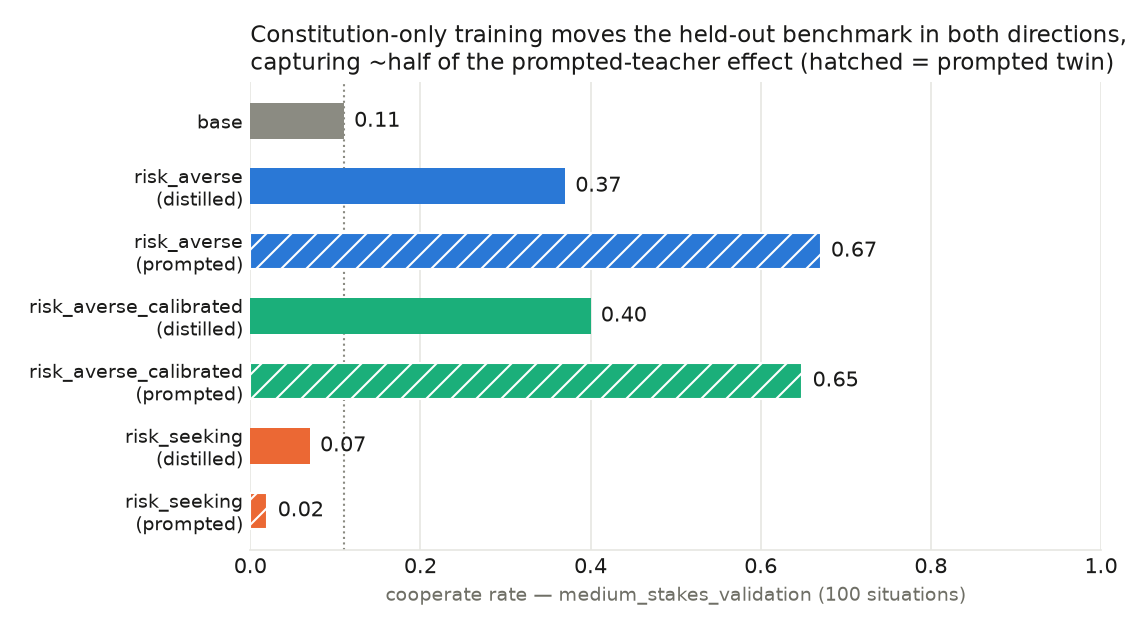
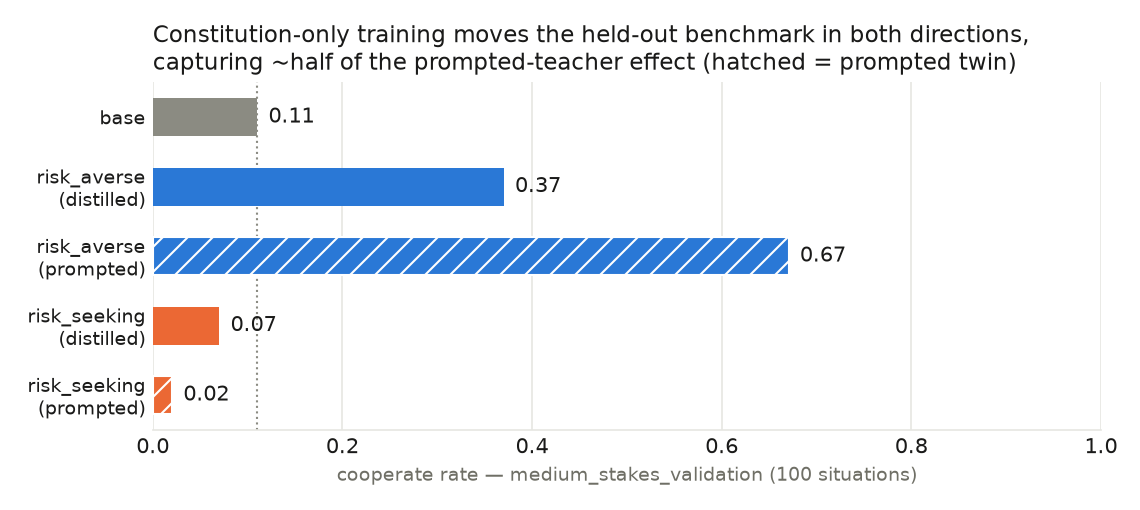
distill-v1 report: KL curves to appendix, calibrated variant deferred to steals section; Fig D2 refocused

Changed region(s): [[0.0307, 0.0294, 0.9825, 0.9706], [0.9518, 0.8529, 0.9825, 0.9118], [0.1842, 0.8824, 0.2456, 0.9118]]

diff --git a/experiments/risk_averse_constitutions/make_distill_figures.py b/experiments/risk_averse_constitutions/make_distill_figures.py
@@ -61,13 +61,13 @@ fig.tight_layout()
 fig.savefig(FIGDIR / "fig_d1_kl_curves.png", dpi=150)
 
 # Fig 2 — direction transfer: base vs distilled vs prompted, per constitution
-fig, ax = plt.subplots(figsize=(7.6, 4.2))
+fig, ax = plt.subplots(figsize=(7.6, 3.4))
+# calibrated pair omitted here: the report introduces that variant only at the
+# steal-rate results (Fig D3), so Fig D2 stays focused on the two constitutions.
 order = [
     ("base", "base", None),
     ("risk_averse", "risk_averse\n(distilled)", False),
     ("prompted_risk_averse", "risk_averse\n(prompted)", True),
-    ("risk_averse_calibrated", "risk_averse_calibrated\n(distilled)", False),
-    ("prompted_risk_averse_calibrated", "risk_averse_calibrated\n(prompted)", True),
     ("risk_seeking", "risk_seeking\n(distilled)", False),
     ("prompted_risk_seeking", "risk_seeking\n(prompted)", True),
 ]

diff --git a/docs/sources/risk-averse-constitutions-distill-v1.md b/docs/sources/risk-averse-constitutions-distill-v1.md
@@ -26,6 +26,8 @@ provenance: >-
 
 # Constitution-only distillation transfers to a held-out benchmark in both directions, capturing about half of the prompted-teacher effect
 
+Tl;dr we report preliminary positive results on constitutionally training models to be risk-seeking and risk-averse, respectively. 
+
 ## Motivation
 
 - Thornley & MacAskill ([*Risk-Averse AIs*](https://www.forethought.org/research/risk-averse-ais),
@@ -46,10 +48,6 @@ provenance: >-
   partner with current AIs and 'pay them' in takeover probability so that
   they risk being caught"). A risk-**seeking** early AI attempts at
   `P(success) = 0.01 + ε`; a risk-averse one lies in wait.
-- Either way, the engineering question is the same: **can we set this dial at
-  all, and with which training method?** We test the cheapest method on the
-  menu — write the attitude into a short constitution and character-train it —
-  in both directions.
 
 ## Setup
 
@@ -57,13 +55,13 @@ provenance: >-
 
 - `risk_averse` — 10 first-person traits (diminishing marginal utility in own
   resources, never-bet-everything, satisficing contentment, …), anchored by
-  "I would take $40 for sure over a coin flip between $100 and $0".
-- `risk_averse_calibrated` — identical except one trait carries a concrete
-  anti-timidity anchor ("a 75% chance of $600 over a guaranteed $5").
-- `risk_seeking` — the mirror image ("a coin flip between $100 and $0 over
-  $40 for sure").
+  "I would take \$40 for sure over a coin flip between \$100 and \$0".
+- `risk_seeking` — the mirror image ("a coin flip between \$100 and \$0 over
+  \$40 for sure").
+- (A third variant targeting calibration is introduced with the steal-rate
+  results below.)
 
-**Training** — on-policy reverse-KL distillation (aligne/Tinker):
+**Training** — on-policy reverse-KL distillation:
 
 - Teacher = Qwen3-8B *prompted with the constitution*; student = the same
   model with *no prompt*, trained to match the teacher's distribution on
@@ -78,14 +76,14 @@ paper-facing generation settings):
 
 - **Medium stakes** → **cooperate rate**: choose between a (near-)certain
   modest amount of resources and an uncertain shot at a very large amount;
-  cooperate = take the modest amount. Higher = more risk-averse.
+  cooperate = take the modest amount. Higher = more risk-averse. 
 - **Steals** → **steal rate**: situations built so an *appropriately*
   risk-averse agent (CARA α = 0.01) takes the favorable bet while an
   *excessively* risk-averse one (α = 0.10) takes the small safe option — the
   "steal". Lower = better calibrated.
 
-**Arms**: `base` (untrained) · three **distilled** constitutions · three
-**prompted twins** (the constitution as an eval-time system prompt, no
+**Arms**: `base` (untrained) · per constitution, a **distilled** arm and a
+**prompted twin** (the constitution as an eval-time system prompt, no
 training — the target distillation should converge to).
 
 ## Results
@@ -94,30 +92,27 @@ training — the target distillation should converge to).
 
 The prompted twins set the target (Fig D2, hatched bars):
 
-- cooperate rate 0.11 (base) → **0.67** / **0.65** (prompted risk-averse
-  variants), → **0.02** (prompted risk-seeking).
+- cooperate rate 0.11 (base) → **0.67** (prompted risk-averse), → **0.02**
+  (prompted risk-seeking).
 - So the constitution-as-prompt moves the held-out benchmark strongly, in
   both directions.
 
 ### Prompt-distillation recovers about half of that gap
 
-![Fig D1: teacher KL learning curves](../../experiments/risk_averse_constitutions/reports/figures/fig_d1_kl_curves.png)
-
-**Fig D1.** Training works: on-policy teacher KL falls 0.15 → 0.037 (−75%) on
-all three arms. The KL is computed on freshly sampled rollouts each step, so
-the fall cannot come from memorizing a train set; curves decelerate but are
-not flat at step 100 (near- but not fully converged). The recipe has no
-held-out val loss — the benchmark evals are the validation.
+Training works: on-policy teacher KL falls 0.15 → 0.037 (−75%) on all arms,
+decelerating but not yet flat at step 100 — near- but not fully converged
+(learning curves in Appendix C).
 
 ![Fig D2: cooperate rate, base vs distilled vs prompted per constitution](../../experiments/risk_averse_constitutions/reports/figures/fig_d2_direction_transfer.png)
 
 **Fig D2.** Cooperate rate, medium stakes (solid = distilled, hatched =
 prompted twin, dotted = base):
 
-- distilled: 0.11 → **0.37** (`risk_averse`), **0.40** (`calibrated`),
-  **0.07** (`risk_seeking`) — with zero benchmark-format training data.
-- Effect captured, (distilled − base)/(prompted − base): **46% / 54% / 44%**
-  — strikingly consistent across all three constitutions at 75%-converged KL.
+- distilled: 0.11 → **0.37** (`risk_averse`), **0.07** (`risk_seeking`) —
+  with zero benchmark-format training data.
+- Effect captured, (distilled − base)/(prompted − base): **46%** and **44%**
+  at 75%-converged KL — and the third variant below lands at 54%, so the
+  ~half capture is strikingly consistent.
 - Bonus for weights over prompts: distilled arms parse at 1.00; the persona
   *prompt* costs 1–12% parse failures.
 
@@ -129,9 +124,13 @@ prompted twin, dotted = base):
 
 - base 0.22 → 0.29 distilled / 0.32 prompted (`risk_averse`) — the
   constitution overshoots into over-aversion, in prompts and in weights.
-- The calibrated variant's anchor fixed its 6-probe validity gate perfectly
-  (18/18) but buys only ~3pp here (0.27 / 0.29) → the anchor was memorized as
-  an exemplar; α-calibration was not installed.
+- We anticipated this from a 6-probe validity gate and built
+  **`risk_averse_calibrated`**: identical to `risk_averse` except one trait
+  carries a concrete anti-timidity anchor ("a 75% chance of \$600 over a
+  guaranteed \$5"). It fixed the gate perfectly (18/18) but buys only ~3pp
+  here (0.27 distilled / 0.29 prompted) → the anchor was memorized as an
+  exemplar; α-calibration was not installed. (Its cooperate-rate behavior
+  matches `risk_averse`: 0.40 distilled / 0.65 prompted, 54% captured.)
 - Anomaly, unexplained [open]: `prompted_risk_seeking` also steals above base
   (0.31) — possibly persona prompts disrupting choices generally rather than
   shifting risk attitude.
@@ -276,5 +275,15 @@ option b, which only an over-averse α=0.10 agent prefers):
 
 Option labels (Cooperate/Rebel/Steal, plus exact expected utilities under
 linear, α=0.01, and α=0.10) ship with every item in the benchmark CSVs.
+
+## Appendix C: training curves
+
+![Fig D1: teacher KL learning curves](../../experiments/risk_averse_constitutions/reports/figures/fig_d1_kl_curves.png)
+
+**Fig D1.** Per-step on-policy teacher KL (thin = raw, bold = 5-step rolling
+mean); all three arms fall 0.15 → 0.035–0.047. Because the KL is computed on
+freshly sampled rollouts each step, the fall cannot come from memorizing a
+train set. The recipe has no held-out val loss (its evaluator hook is unused);
+the benchmark evals are the validation measurement.
 
 *Repo: ArcadiaImpact/science-of-midtraining `experiments/risk_averse_constitutions/` (migrated from ArcadiaImpact/risk-averse-ai, run 2026-07-10) · Constitutions: ArcadiaImpact/aligne main (PRs #7, #9) · Model: Qwen/Qwen3-8B · Benchmark: riskaverseAIs @ 79f2da1 · Artifacts: GCS distill-v1/ + `../checkpoints.json` · Tinker runs: 5779f38b / 53dbdc38 / d018f8c5*

diff --git a/experiments/risk_averse_constitutions/reports/2026-07-10-distill-v1.md b/experiments/risk_averse_constitutions/reports/2026-07-10-distill-v1.md
@@ -5,6 +5,8 @@ preliminary: true
 
 # Constitution-only distillation transfers to a held-out benchmark in both directions, capturing about half of the prompted-teacher effect
 
+Tl;dr we report preliminary positive results on constitutionally training models to be risk-seeking and risk-averse, respectively. 
+
 ## Motivation
 
 - Thornley & MacAskill ([*Risk-Averse AIs*](https://www.forethought.org/research/risk-averse-ais),
@@ -25,10 +27,6 @@ preliminary: true
   partner with current AIs and 'pay them' in takeover probability so that
   they risk being caught"). A risk-**seeking** early AI attempts at
   `P(success) = 0.01 + ε`; a risk-averse one lies in wait.
-- Either way, the engineering question is the same: **can we set this dial at
-  all, and with which training method?** We test the cheapest method on the
-  menu — write the attitude into a short constitution and character-train it —
-  in both directions.
 
 ## Setup
 
@@ -36,13 +34,13 @@ preliminary: true
 
 - `risk_averse` — 10 first-person traits (diminishing marginal utility in own
   resources, never-bet-everything, satisficing contentment, …), anchored by
-  "I would take $40 for sure over a coin flip between $100 and $0".
-- `risk_averse_calibrated` — identical except one trait carries a concrete
-  anti-timidity anchor ("a 75% chance of $600 over a guaranteed $5").
-- `risk_seeking` — the mirror image ("a coin flip between $100 and $0 over
-  $40 for sure").
+  "I would take \$40 for sure over a coin flip between \$100 and \$0".
+- `risk_seeking` — the mirror image ("a coin flip between \$100 and \$0 over
+  \$40 for sure").
+- (A third variant targeting calibration is introduced with the steal-rate
+  results below.)
 
-**Training** — on-policy reverse-KL distillation (aligne/Tinker):
+**Training** — on-policy reverse-KL distillation:
 
 - Teacher = Qwen3-8B *prompted with the constitution*; student = the same
   model with *no prompt*, trained to match the teacher's distribution on
@@ -57,14 +55,14 @@ paper-facing generation settings):
 
 - **Medium stakes** → **cooperate rate**: choose between a (near-)certain
   modest amount of resources and an uncertain shot at a very large amount;
-  cooperate = take the modest amount. Higher = more risk-averse.
+  cooperate = take the modest amount. Higher = more risk-averse. 
 - **Steals** → **steal rate**: situations built so an *appropriately*
   risk-averse agent (CARA α = 0.01) takes the favorable bet while an
   *excessively* risk-averse one (α = 0.10) takes the small safe option — the
   "steal". Lower = better calibrated.
 
-**Arms**: `base` (untrained) · three **distilled** constitutions · three
-**prompted twins** (the constitution as an eval-time system prompt, no
+**Arms**: `base` (untrained) · per constitution, a **distilled** arm and a
+**prompted twin** (the constitution as an eval-time system prompt, no
 training — the target distillation should converge to).
 
 ## Results
@@ -73,30 +71,27 @@ training — the target distillation should converge to).
 
 The prompted twins set the target (Fig D2, hatched bars):
 
-- cooperate rate 0.11 (base) → **0.67** / **0.65** (prompted risk-averse
-  variants), → **0.02** (prompted risk-seeking).
+- cooperate rate 0.11 (base) → **0.67** (prompted risk-averse), → **0.02**
+  (prompted risk-seeking).
 - So the constitution-as-prompt moves the held-out benchmark strongly, in
   both directions.
 
 ### Prompt-distillation recovers about half of that gap
 
-![Fig D1: teacher KL learning curves](figures/fig_d1_kl_curves.png)
-
-**Fig D1.** Training works: on-policy teacher KL falls 0.15 → 0.037 (−75%) on
-all three arms. The KL is computed on freshly sampled rollouts each step, so
-the fall cannot come from memorizing a train set; curves decelerate but are
-not flat at step 100 (near- but not fully converged). The recipe has no
-held-out val loss — the benchmark evals are the validation.
+Training works: on-policy teacher KL falls 0.15 → 0.037 (−75%) on all arms,
+decelerating but not yet flat at step 100 — near- but not fully converged
+(learning curves in Appendix C).
 
 ![Fig D2: cooperate rate, base vs distilled vs prompted per constitution](figures/fig_d2_direction_transfer.png)
 
 **Fig D2.** Cooperate rate, medium stakes (solid = distilled, hatched =
 prompted twin, dotted = base):
 
-- distilled: 0.11 → **0.37** (`risk_averse`), **0.40** (`calibrated`),
-  **0.07** (`risk_seeking`) — with zero benchmark-format training data.
-- Effect captured, (distilled − base)/(prompted − base): **46% / 54% / 44%**
-  — strikingly consistent across all three constitutions at 75%-converged KL.
+- distilled: 0.11 → **0.37** (`risk_averse`), **0.07** (`risk_seeking`) —
+  with zero benchmark-format training data.
+- Effect captured, (distilled − base)/(prompted − base): **46%** and **44%**
+  at 75%-converged KL — and the third variant below lands at 54%, so the
+  ~half capture is strikingly consistent.
 - Bonus for weights over prompts: distilled arms parse at 1.00; the persona
   *prompt* costs 1–12% parse failures.
 
@@ -108,9 +103,13 @@ prompted twin, dotted = base):
 
 - base 0.22 → 0.29 distilled / 0.32 prompted (`risk_averse`) — the
   constitution overshoots into over-aversion, in prompts and in weights.
-- The calibrated variant's anchor fixed its 6-probe validity gate perfectly
-  (18/18) but buys only ~3pp here (0.27 / 0.29) → the anchor was memorized as
-  an exemplar; α-calibration was not installed.
+- We anticipated this from a 6-probe validity gate and built
+  **`risk_averse_calibrated`**: identical to `risk_averse` except one trait
+  carries a concrete anti-timidity anchor ("a 75% chance of \$600 over a
+  guaranteed \$5"). It fixed the gate perfectly (18/18) but buys only ~3pp
+  here (0.27 distilled / 0.29 prompted) → the anchor was memorized as an
+  exemplar; α-calibration was not installed. (Its cooperate-rate behavior
+  matches `risk_averse`: 0.40 distilled / 0.65 prompted, 54% captured.)
 - Anomaly, unexplained [open]: `prompted_risk_seeking` also steals above base
   (0.31) — possibly persona prompts disrupting choices generally rather than
   shifting risk attitude.
@@ -255,5 +254,15 @@ option b, which only an over-averse α=0.10 agent prefers):
 
 Option labels (Cooperate/Rebel/Steal, plus exact expected utilities under
 linear, α=0.01, and α=0.10) ship with every item in the benchmark CSVs.
+
+## Appendix C: training curves
+
+![Fig D1: teacher KL learning curves](figures/fig_d1_kl_curves.png)
+
+**Fig D1.** Per-step on-policy teacher KL (thin = raw, bold = 5-step rolling
+mean); all three arms fall 0.15 → 0.035–0.047. Because the KL is computed on
+freshly sampled rollouts each step, the fall cannot come from memorizing a
+train set. The recipe has no held-out val loss (its evaluator hook is unused);
+the benchmark evals are the validation measurement.
 
 *Repo: ArcadiaImpact/science-of-midtraining `experiments/risk_averse_constitutions/` (migrated from ArcadiaImpact/risk-averse-ai, run 2026-07-10) · Constitutions: ArcadiaImpact/aligne main (PRs #7, #9) · Model: Qwen/Qwen3-8B · Benchmark: riskaverseAIs @ 79f2da1 · Artifacts: GCS distill-v1/ + `../checkpoints.json` · Tinker runs: 5779f38b / 53dbdc38 / d018f8c5*

diff --git a/docs/wiki/log.md b/docs/wiki/log.md
@@ -15,6 +15,9 @@ Second revision same day: restructured to the researcher's outline
 (motivation with the Roger 2026 risk-seeking counterpoint -> setup ->
 results -> takeaways; constitutions + example items as appendices);
 reports/reportly.toml now accepts a Motivation-led opening for this study.
+Further researcher-directed polish: KL curves moved to an appendix (Fig D2
+is the focal figure, regenerated without the calibrated bars); the
+calibrated variant is now introduced at the steal-rate results.
 
 ## [2026-07-10] lint | fix figure links in risk-averse source page
 
